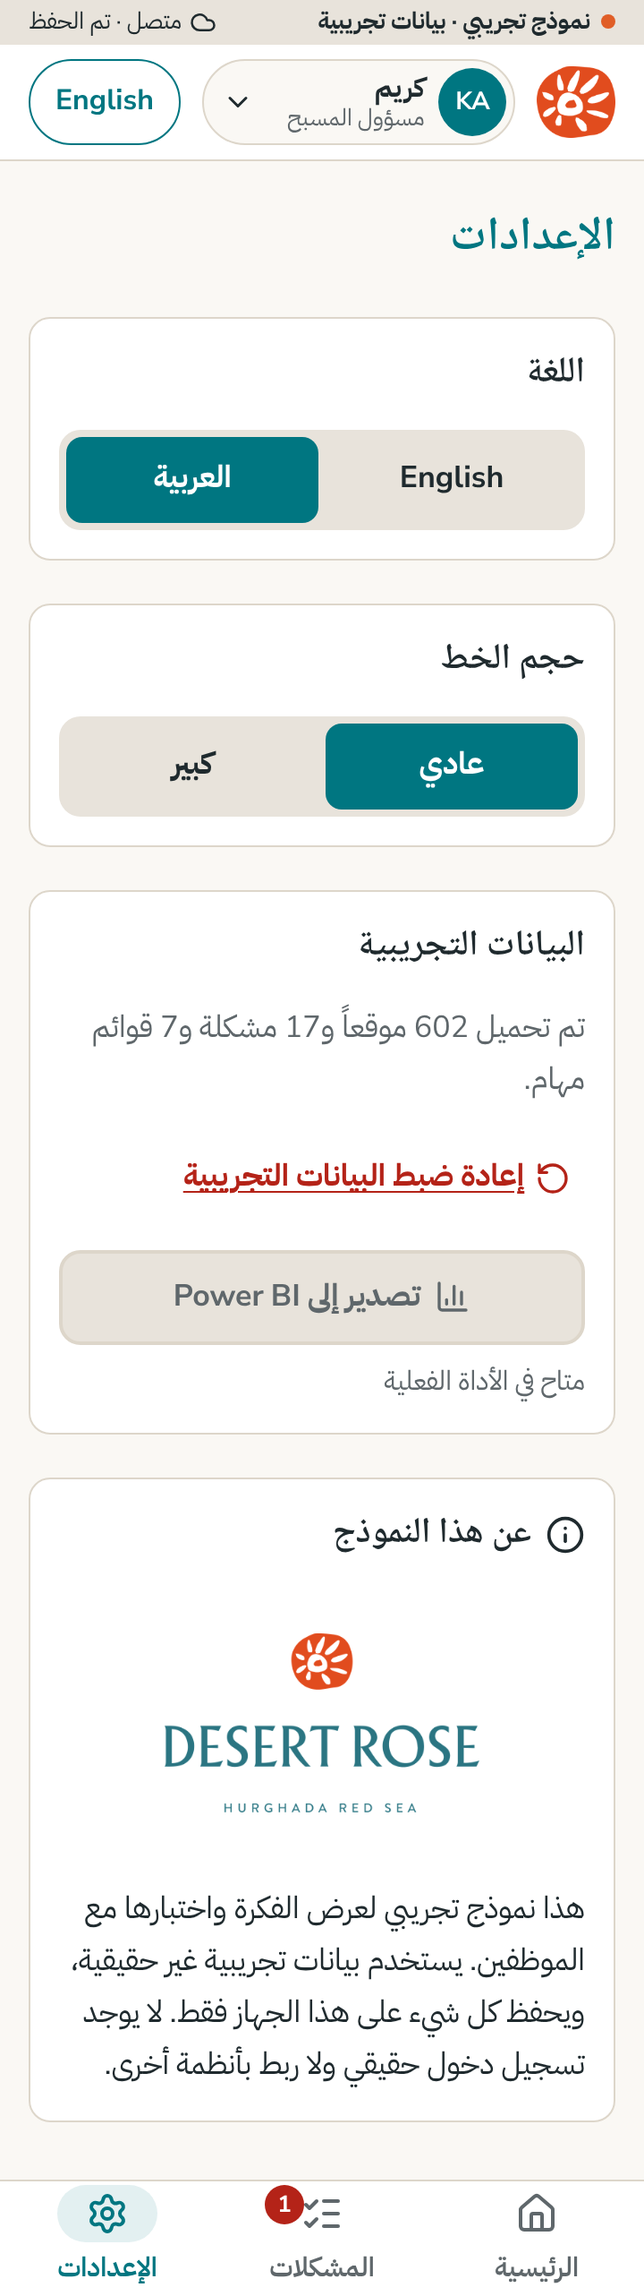
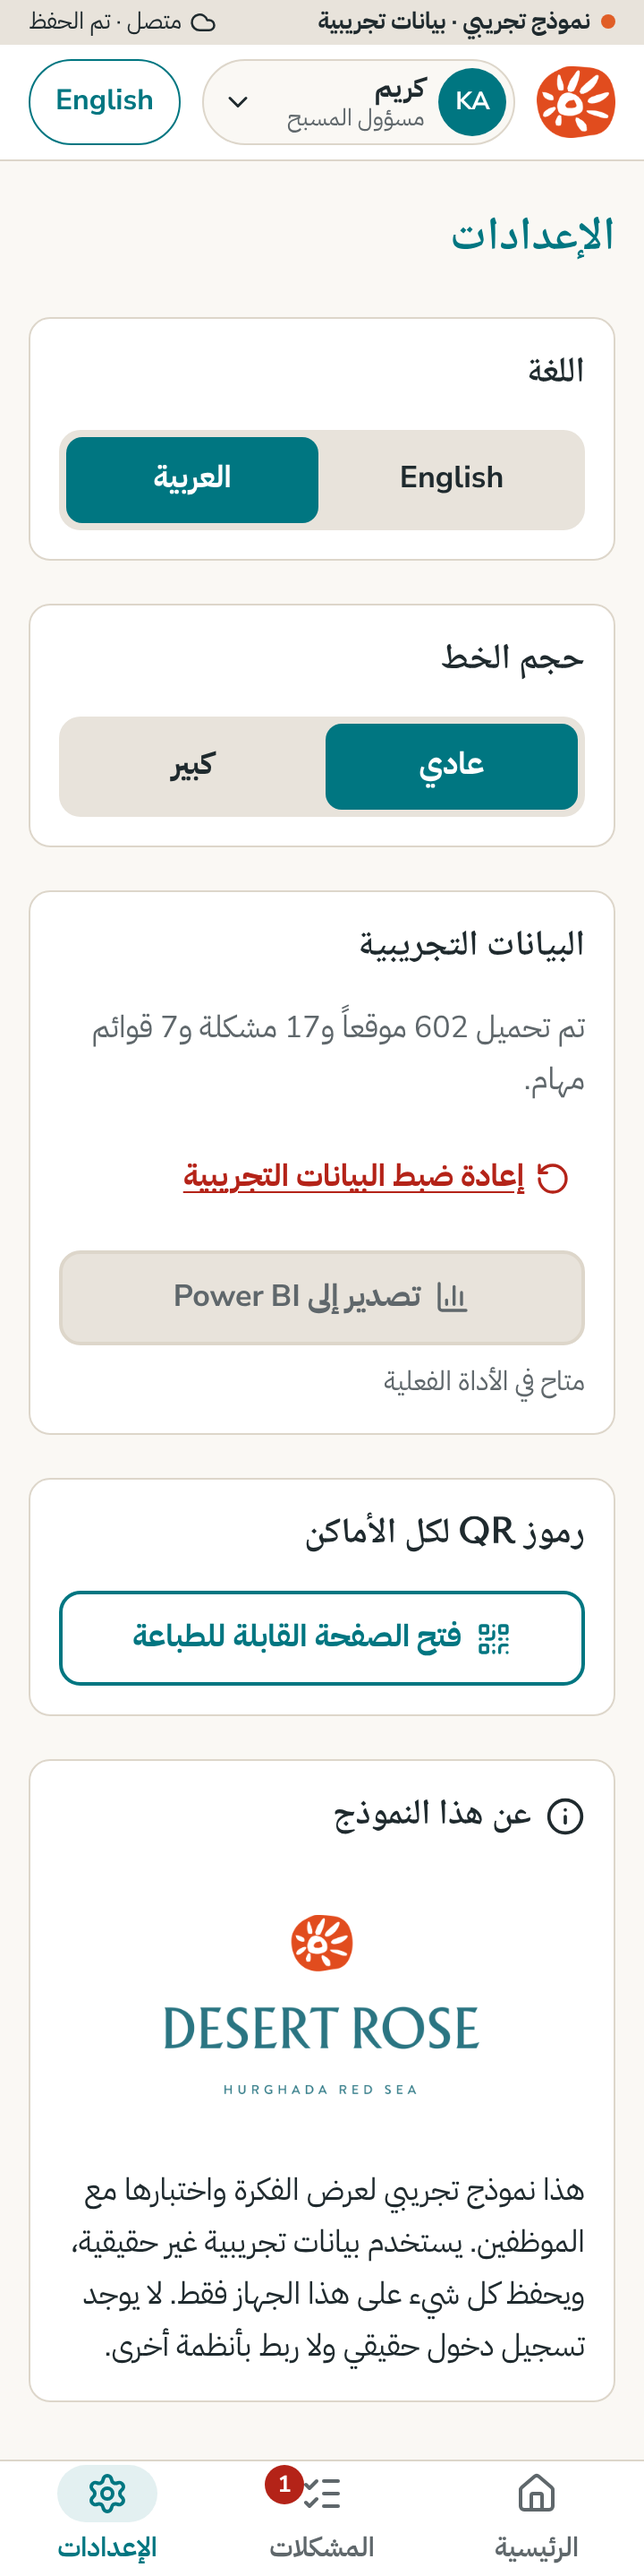
Stage 6: offline check, GitHub Pages workflow, README with demo script; remove placeholders
Claude-Session: https://claude.ai/code/session_01LXgLaxXptJm5oQcshmzJHy

diff --git a/src/App.tsx b/src/App.tsx
@@ -1,9 +1,8 @@
-import { HashRouter, Route, Routes, useLocation } from 'react-router-dom'
+import { HashRouter, Navigate, Route, Routes, useLocation } from 'react-router-dom'
 import { Header } from './components/Header'
 import { BottomNav } from './components/BottomNav'
 import { Home } from './screens/Home'
 import { Settings } from './screens/Settings'
-import { Soon } from './screens/Soon'
 import { StartChecklist } from './screens/StartChecklist'
 import { OpenChecklist } from './screens/OpenChecklist'
 import { ChecklistRun } from './screens/ChecklistRun'
@@ -59,7 +58,6 @@ function Frame() {
                 <Route index element={<NoProblemSelected />} />
                 <Route path=":id" element={<ProblemDetail />} />
               </Route>
-              <Route path="/soon/:stage" element={<Soon />} />
               <Route path="/checklists/start" element={<StartChecklist />} />
               <Route path="/checklist/open/:locationId/:templateId" element={<OpenChecklist />} />
               <Route path="/checklist/:runId" element={<ChecklistRun />} />
@@ -69,6 +67,7 @@ function Frame() {
               <Route path="/inspections/start/:templateId" element={<StartInspection />} />
               <Route path="/inspection/:runId/summary" element={<InspectionSummary />} />
               <Route path="/inspection/:runId/:index?" element={<InspectionRun />} />
+              <Route path="*" element={<Navigate to="/" replace />} />
             </Routes>
           )}
         </main>

diff --git a/README.md b/README.md
@@ -2,7 +2,10 @@
 
 A phone and tablet web app that shows the OE 2.0 idea: shift checklists, inspections on the move, and one problem list. Prototype only, with made-up demo data. The full brief is in [BRIEF.md](BRIEF.md).
 
-**Status:** stage 3 of 6 (problem list). UI showcase: [docs/ui-showcase](docs/ui-showcase) (key screens in phone frames, English and Arabic). Current screenshots: [docs/screenshots/current](docs/screenshots/current).
+**Status:** all six stages built. Ready for a live demo.
+
+- UI showcase: [docs/ui-showcase](docs/ui-showcase) (key screens in phone frames, English and Arabic)
+- Screenshots: [docs/screenshots/current](docs/screenshots/current)
 
 ## Run it locally
 
@@ -13,13 +16,52 @@ npm install
 npm run dev        # opens on http://localhost:5173
 ```
 
-## Publish as a static site
+## Publish it (GitHub Pages)
 
-```bash
-npm run build      # output in dist/
-```
+The repository has a workflow that builds the app and publishes it every time this branch is pushed.
 
-Upload the `dist/` folder to any static host (Netlify, GitHub Pages, Azure Static Web Apps, an S3 bucket). The app uses relative paths and hash links, so it works from any folder with no server setup. It must be served over HTTPS for "install to home screen" and offline use.
+One-time setup, in the GitHub repository: **Settings → Pages → Build and deployment → Source: GitHub Actions.** After the next push (or **Actions → Publish prototype → Run workflow**), the app is at `https://<owner>.github.io/Desert-Rose-App-Prototype/`.
+
+Any other static host works too: run `npm run build` and upload the `dist/` folder. The app uses relative paths and hash links, so it works from any folder. It must be served over HTTPS for "install to home screen" and offline use.
+
+### On the phone or tablet
+
+Open the link in Chrome (Android) or Safari (iPhone, iPad), then **Add to Home Screen**. After the first visit the app opens offline.
+
+## Five-minute demo script
+
+Before the demo: open **Settings → Reset demo data**. Stay in English, or switch to Arabic at any point with the button at the top right; every screen works in both.
+
+**1. Karim, pool attendant (1 minute)**
+1. Home shows Karim. Tap **Next up: Quiet Pool → Start checklist**. (Or tap **Scan the code to start** and point the camera at the Quiet Pool code from the QR sheet.)
+2. Tap the first task. Type initials **KA**, tap **Save initials**. The task turns teal with initials and time.
+3. Tick tasks 2 to 5.
+4. On task 6, *Drains and grids free from algae*, tap **Report a problem**. Type *Algae on the drain grid*, tap **Take photo**, pick **Care**, tap **Send problem**. You are back on the checklist.
+5. Tick tasks 6 and 7. **Submit checklist** is now enabled. Tap it.
+
+**2. Hassan, supervisor (1 minute)**
+1. Tap the name at the top and pick **Hassan**. Home says *1 waiting for your check*.
+2. Tap **Quiet Pool**. Point out: *Check the result, not the ticks.* Tap **Result looks right**.
+3. Tap **Problems** at the bottom. Open **Algae on the drain grid**. Tap **Change owner or due date**, pick **Karim**, keep *tomorrow*, tap **Save**. The history shows *Hassan gave it to Karim*.
+
+**3. Sara, auditor (1.5 minutes)**
+1. Pick **Sara**. Tap **Vacant room inspection → Start inspection**. Type **5212**, tap **Room 5212**.
+2. Mark items 1 to 4 **Yes / Good**, tapping **Next item** each time.
+3. On *A/C grill*: **Yes** and **Needs work**. Type the note *Dust on the A/C grill*. Tap **Add as a problem**. The form is pre-filled, tagged **Renovated area** from the room. Pick **Care**, tap **Send problem**.
+4. Tap **Next item** and mark the rest **Yes / Good**, then **Finish**. The summary shows **Steps followed 10 of 10** and **Result good 9 of 10**, side by side, never one score. Tap **Finish inspection**.
+5. Start the same inspection for **4121**. On *Kettle and tray*: **Yes / Not acceptable**, **Add as a problem**: *Rust on the kettle screw*, **Condition**, send. Tap **See the problem**. It is tagged **Old area**. Tap **Send to capex list**, confirm. It leaves the open count but stays on the list.
+
+**4. The rule against confirming your own fix (0.5 minutes)**
+1. Pick **Karim**. Tap **Problems**. Open **Algae on the drain grid**. Tap **Mark as fixed**, then **Mark as fixed** again.
+2. Tap **Confirm fixed**. The app stops him: *You fixed this, so someone else needs to check it.*
+3. Pick **Hassan**. **Problems**, set the status filter to *Fixed, waiting for check*, open the algae problem, tap **Confirm fixed**. Closed and confirmed, with the full history.
+
+**5. The general manager (1 minute)**
+1. Pick **Samir**. Home shows the key numbers. Tap **See the full summary**.
+2. Point out: old and renovated areas apart, condition and care apart, and the repeat at Room 5212.
+3. Tap the **Safety** tile. The list shows safety problems first. Open **Broken tiles inside the pool** (Zaitouna Pool): the interim note *Area roped off* sits at the top.
+
+**6. Arabic (throughout)** Tap **العربية** at the top right. The same screen appears in Arabic, right to left.
 
 ## Where things are
 
@@ -29,15 +71,34 @@ Upload the `dist/` folder to any static host (Netlify, GitHub Pages, Azure Stati
 | Every Arabic string, for native-speaker review | `src/i18n/ar.json` |
 | English screen text | `src/i18n/en.json` |
 | Design tokens (brand colours, type, spacing) | `src/styles/tokens.css` |
-| Brand logo files | `assets/` (web copies made by `npm run icons`) |
-| Stage 2 end-to-end check (scan, tick, send back, confirm) | `scripts/e2e/checklists.mjs` (see the comment at the top) |
-| Stage 3 end-to-end check (report, assign, fix, confirm, capex, safety, filters) | `scripts/e2e/problems.mjs scripts/e2e/sample-photo.jpg` |
 | Who may do what on a problem (rules 6–9) | `src/lib/problems.ts` |
-| UI showcase (re-run after design changes) | `npm run build && node scripts/showcase.mjs docs/ui-showcase/raw && node scripts/build-showcase.mjs` |
-| Screenshot script | `scripts/screenshots.mjs` (`npm run build && node scripts/screenshots.mjs <folder>`) |
+| The two inspection totals (rule 4) | `src/lib/inspections.ts` |
+| The one-page summary numbers | `src/lib/summary.ts` |
+| Brand logo files | `assets/` (web copies made by `npm run icons`) |
+| Publishing workflow | `.github/workflows/pages.yml` |
+
+## Checks
+
+Automated end-to-end checks run the real app in a browser at 360 px. Run them after `npm run build`:
+
+| Check | Command |
+|---|---|
+| Checklists: scan, tick, could not do, send back, confirm | `node scripts/e2e/checklists.mjs <fake-camera.y4m>` (make the camera file with `node scripts/e2e/make-qr-video.mjs DR-LOC:quiet-pool qr.y4m`) |
+| Problems: report, assign, fix, confirm (not your own), capex, safety, filters | `node scripts/e2e/problems.mjs scripts/e2e/sample-photo.jpg` |
+| Inspections: two marks, add as a problem, summary totals | `node scripts/e2e/inspections.mjs` |
+| Offline: service worker, offline tick, offline reload | `node scripts/e2e/offline.mjs` |
+| Screenshots in both languages at phone and tablet sizes | `node scripts/screenshots.mjs <folder>` |
+| UI showcase sheets | `node scripts/showcase.mjs docs/ui-showcase/raw && node scripts/build-showcase.mjs` |
+
+Contrast: every text and background pair used passes WCAG AA (teal on white 5.4:1, teal on page 5.1:1, ink on pearl 11.5:1, each status chip above 4.6:1). Orange is used only in the logo and as a dot in the prototype label.
 
 ## Stack
 
-React with TypeScript, built with Vite. Data is kept on the device in IndexedDB (through the small `idb` library) and loaded from `seed.json` on first run; "Reset demo data" reloads it. `vite-plugin-pwa` makes it installable and caches the app and fonts for offline use. Icons are Lucide. QR codes are read on the device with `@zxing/browser`; the "pick from a list" fallback is always there. Fonts (Tenor Sans, Nunito Sans, Noto Naskh Arabic, IBM Plex Sans Arabic) are bundled from npm, so nothing loads from the internet.
+React with TypeScript, built with Vite. Data is kept on the device in IndexedDB (through the small `idb` library) and loaded from `seed.json` on first run; "Reset demo data" reloads it. `vite-plugin-pwa` makes it installable and caches the app and fonts for offline use. Icons are Lucide. QR codes are read on the device with `@zxing/browser`, with "pick from a list" always available. Fonts (Tenor Sans, Nunito Sans, Noto Naskh Arabic, IBM Plex Sans Arabic) are bundled from npm, so nothing loads from the internet.
 
-The demo script is added in stage 6.
+## Known limits
+
+- No horizontal logo file was supplied, so the header shows the icon alone. Add `assets/DR_logo_horizontal.png`, run `npm run icons`, and change `HEADER_LOGO` in `src/components/Header.tsx`.
+- Seed problems have no photos; anything reported during the demo has its photo.
+- The QR sheet shows one code per building; the real tool would print one per room.
+- "Sync" is simulated: there is no server, so the indicator only reports whether the device is online.
